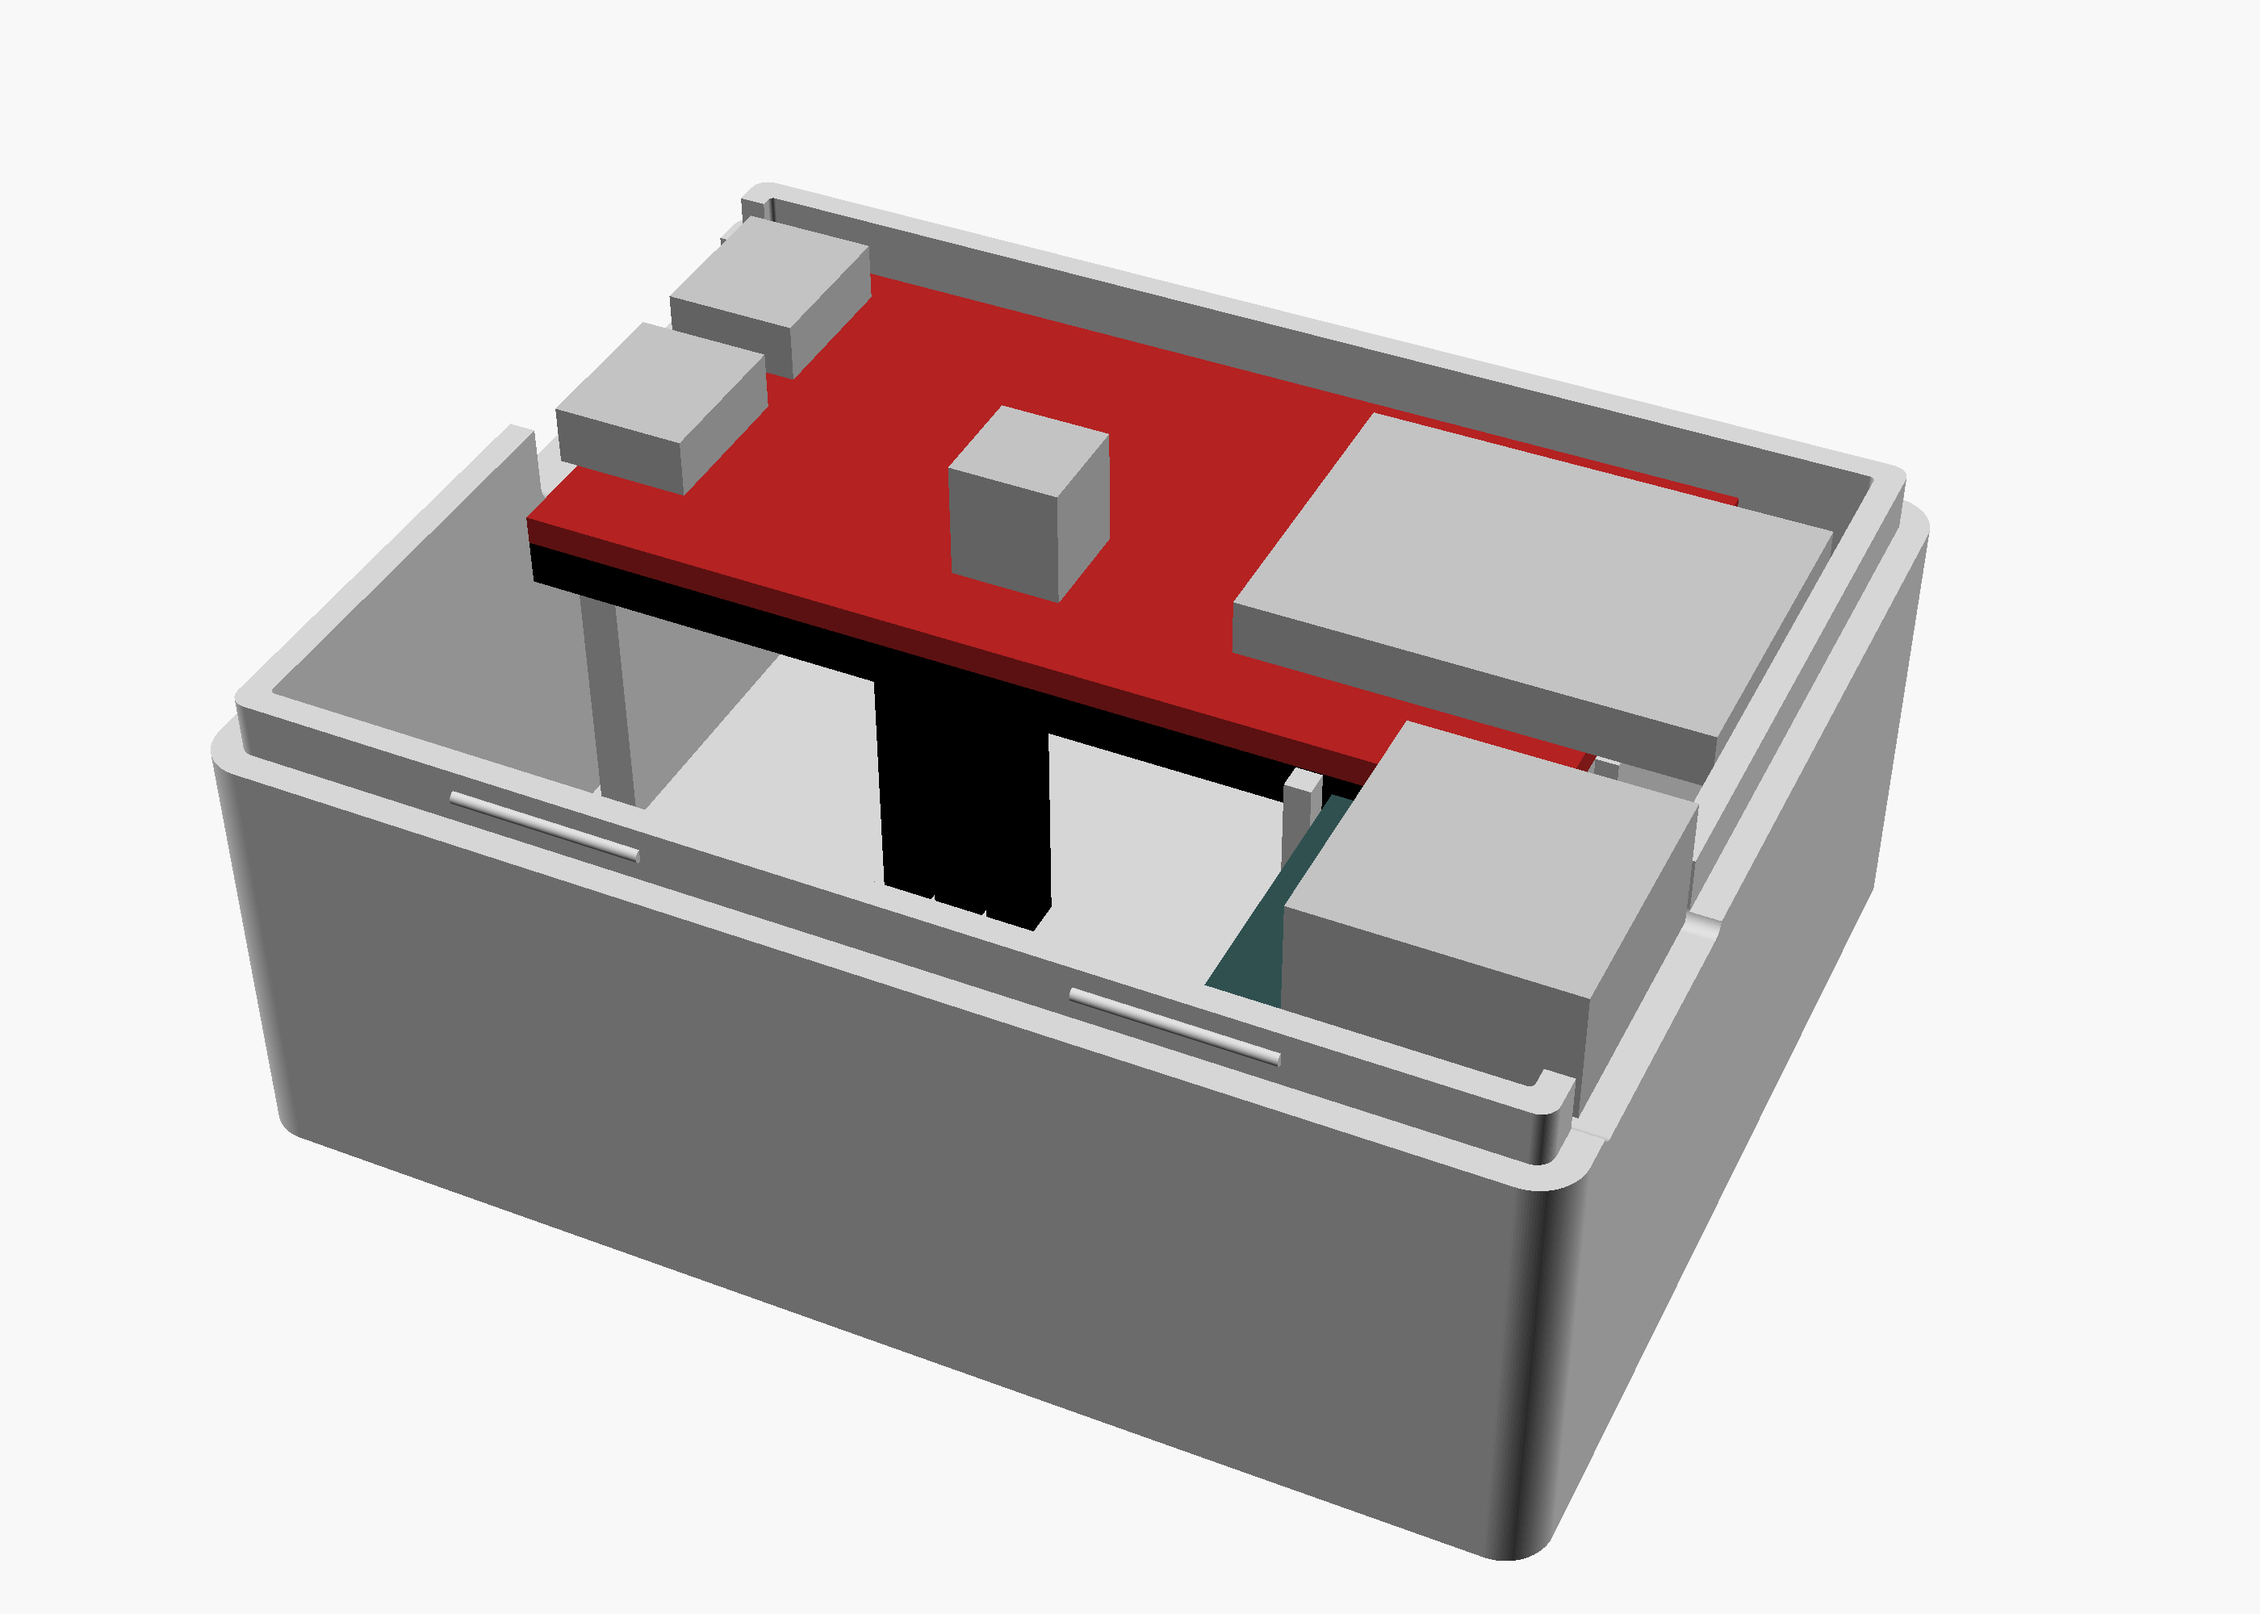
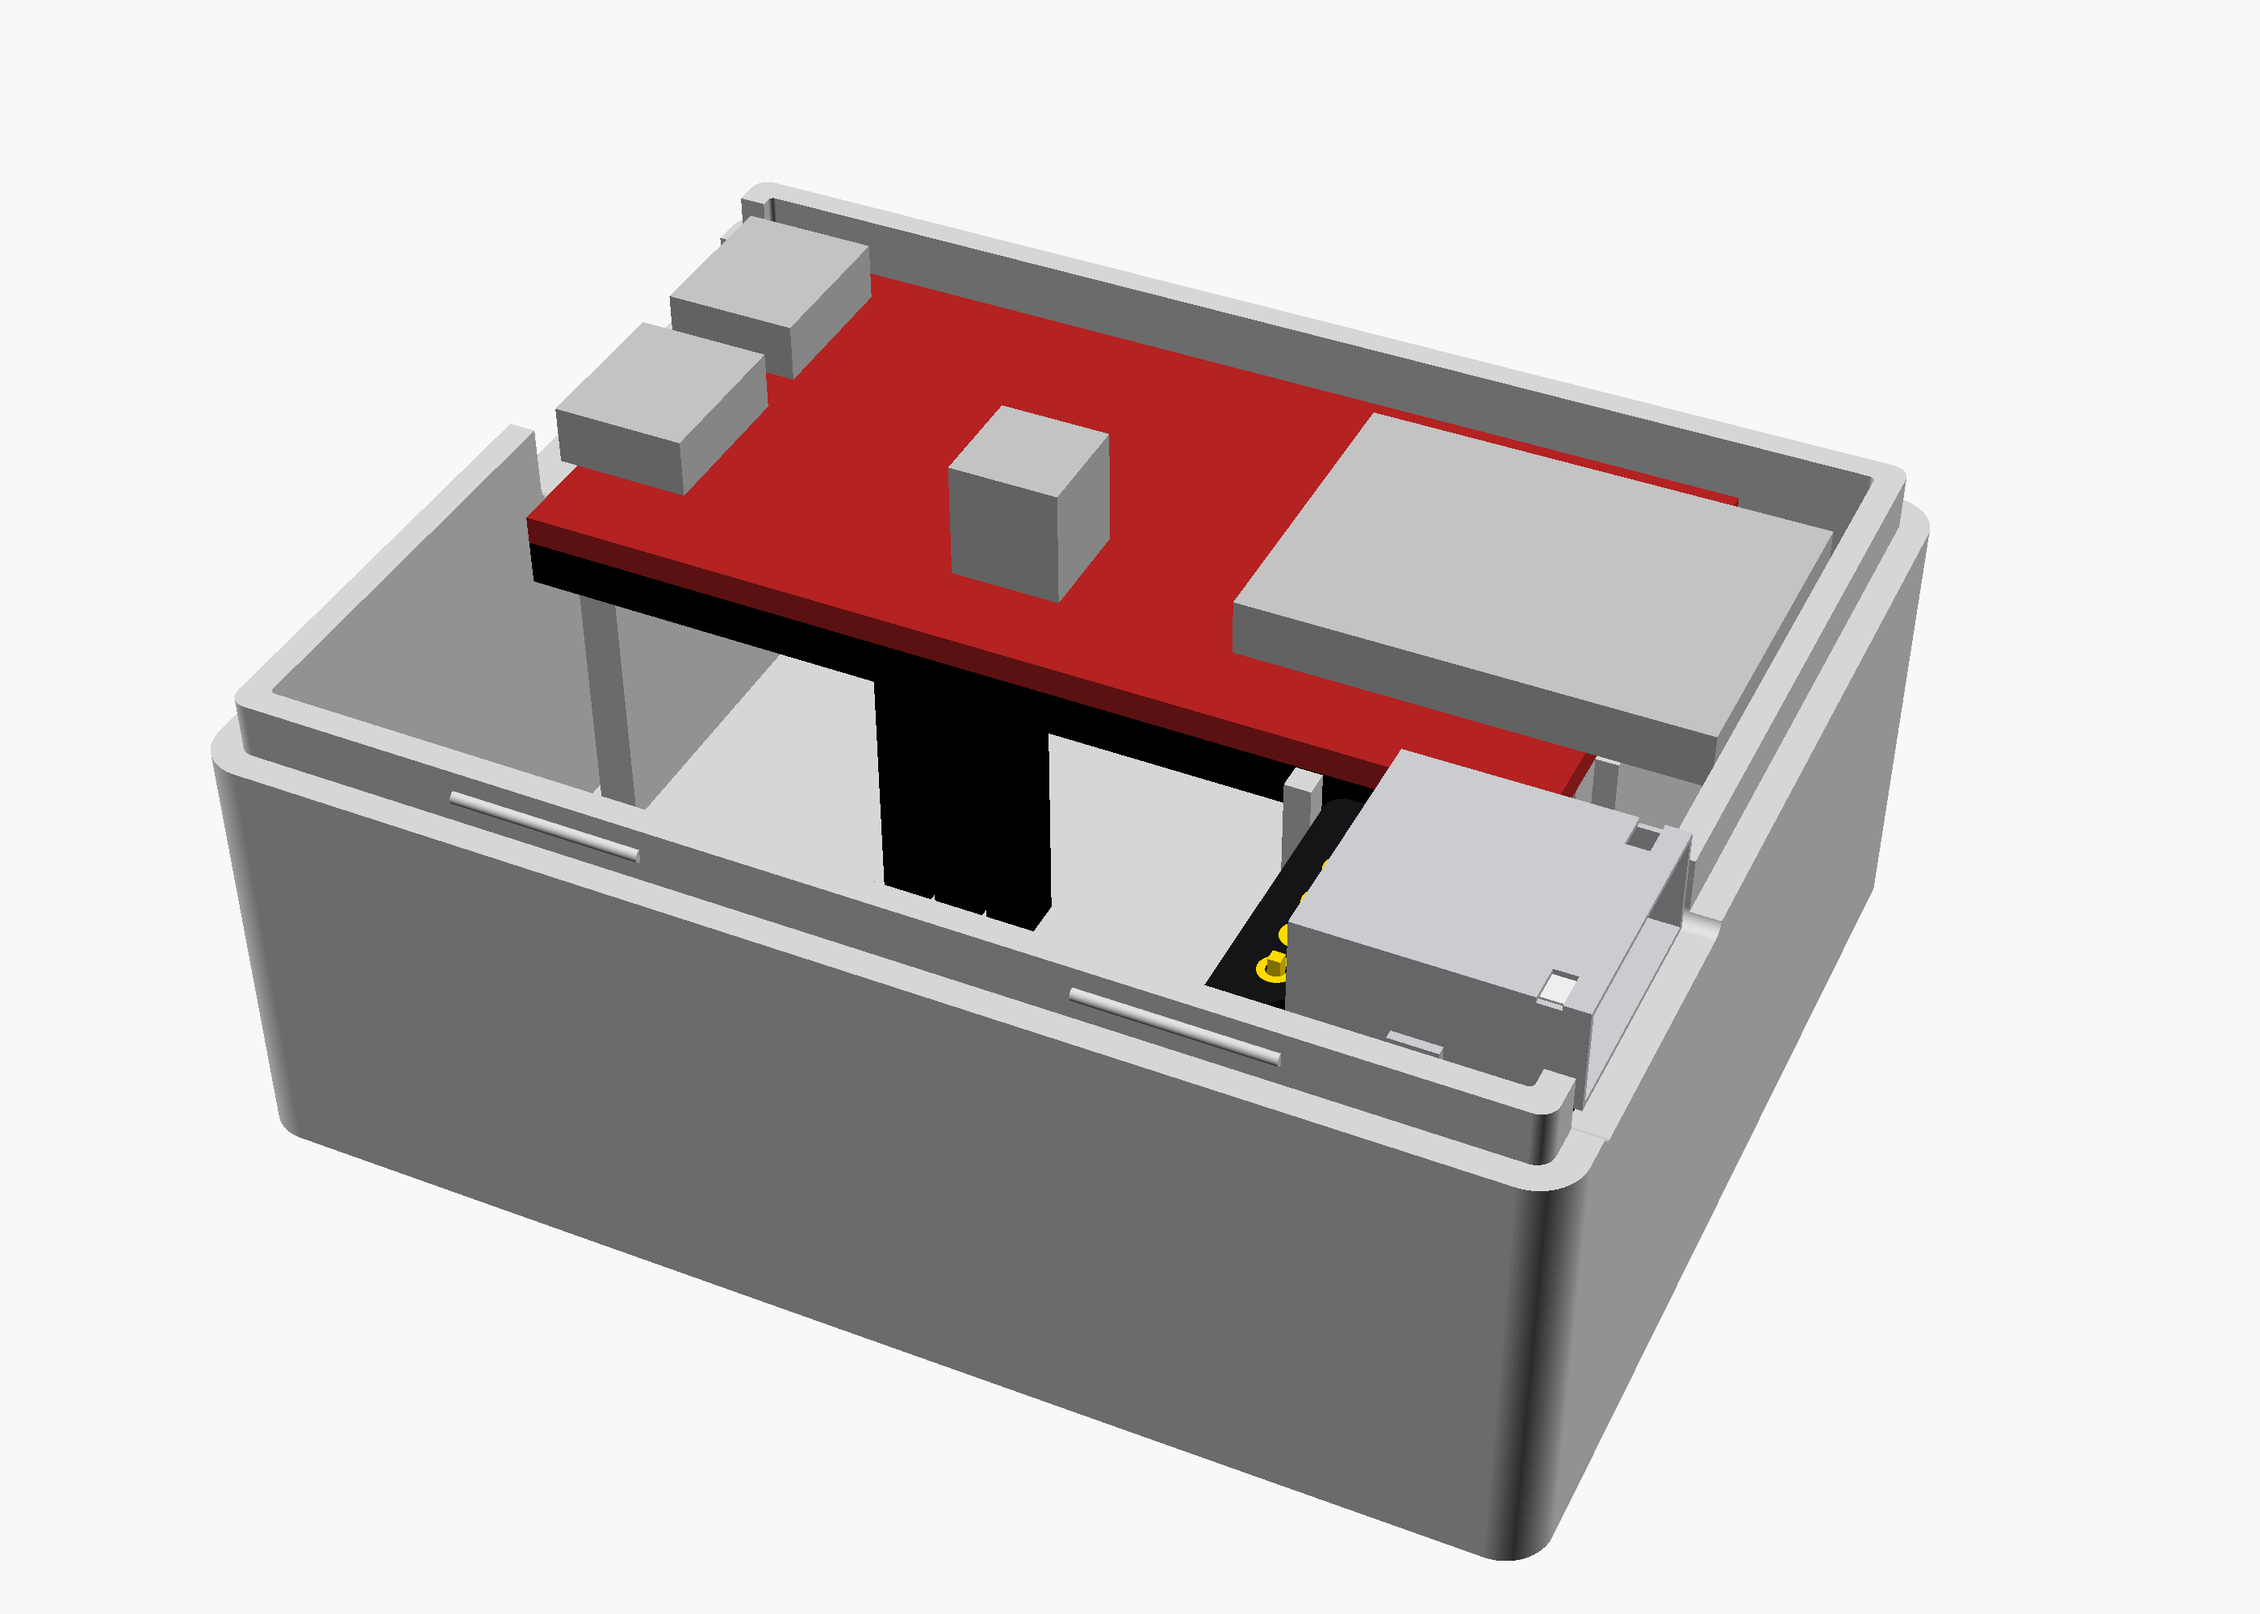
Proto case renders: detailed USB-A breakout model
The breakout stand-in is now a black PCB with mounting holes, gold pin
pads and labels, a hollow metal USB-A shell with tongue, contacts and
latches, header pins, jumper housings and wire stubs. It stays inside the
envelope the case was designed for; overlap check still clean. New
close-up and outside views; the closed-box lid is drawn solid (the new
OpenSCAD honours the old 35% alpha). STLs unchanged.

Changed region(s): [[0.5282, 0.434, 0.7768, 0.682]]

diff --git a/hardware/enclosure-proto/README.md b/hardware/enclosure-proto/README.md
@@ -9,6 +9,11 @@ With the boards inside (lid off; boards are simple stand-in blocks: red = Olimex
 
 ![boards inside](renders/case-inside-top.png)
 
+The USB-A breakout close up, inside and from outside:
+
+![USB-A breakout close-up](renders/case-usba-closeup.png)
+![USB-A socket through the end wall](renders/case-usba-outside.png)
+
 - Outside size about 70 × 55 × 33 mm, with 3 mm walls (MJF needs at least 1 mm everywhere, including beside the snap grooves). Most of the height is the space under the boards
   for the jumper wires.
 - Both boards sit right side up with their pins pointing down. The Olimex rests on two
@@ -52,7 +57,8 @@ Pictures (2800 × 2000, smooth curves, in colour; run under `xvfb-run -a -s '-sc
         --imgsize=2800,2000 --camera=33,26,12,50,0,25,210 -o renders/case-inside-top.png keyhop-proto-case.scad
 
 Other views: `part="exploded"` with `--camera=35,25,20,58,0,30,230`, `part="assembly"` with
-`35,25,15,60,0,215,200`, `part="inside"` with `33,26,12,55,0,320,210` (case-inside-usba.png).
+`35,25,15,60,0,215,200`, `part="inside"` with `33,26,12,55,0,320,210` (case-inside-usba.png) and `56,10,24,40,0,300,70` (case-usba-closeup.png),
+`part="assembly"` with `110,-25,45,64,9,26` (case-usba-outside.png).
 The `libEGL ... Permission denied` warnings are harmless (software rendering).
 
 The STLs in this folder were exported with the old 2021.01 and are what was ordered on 2026-11-20.
